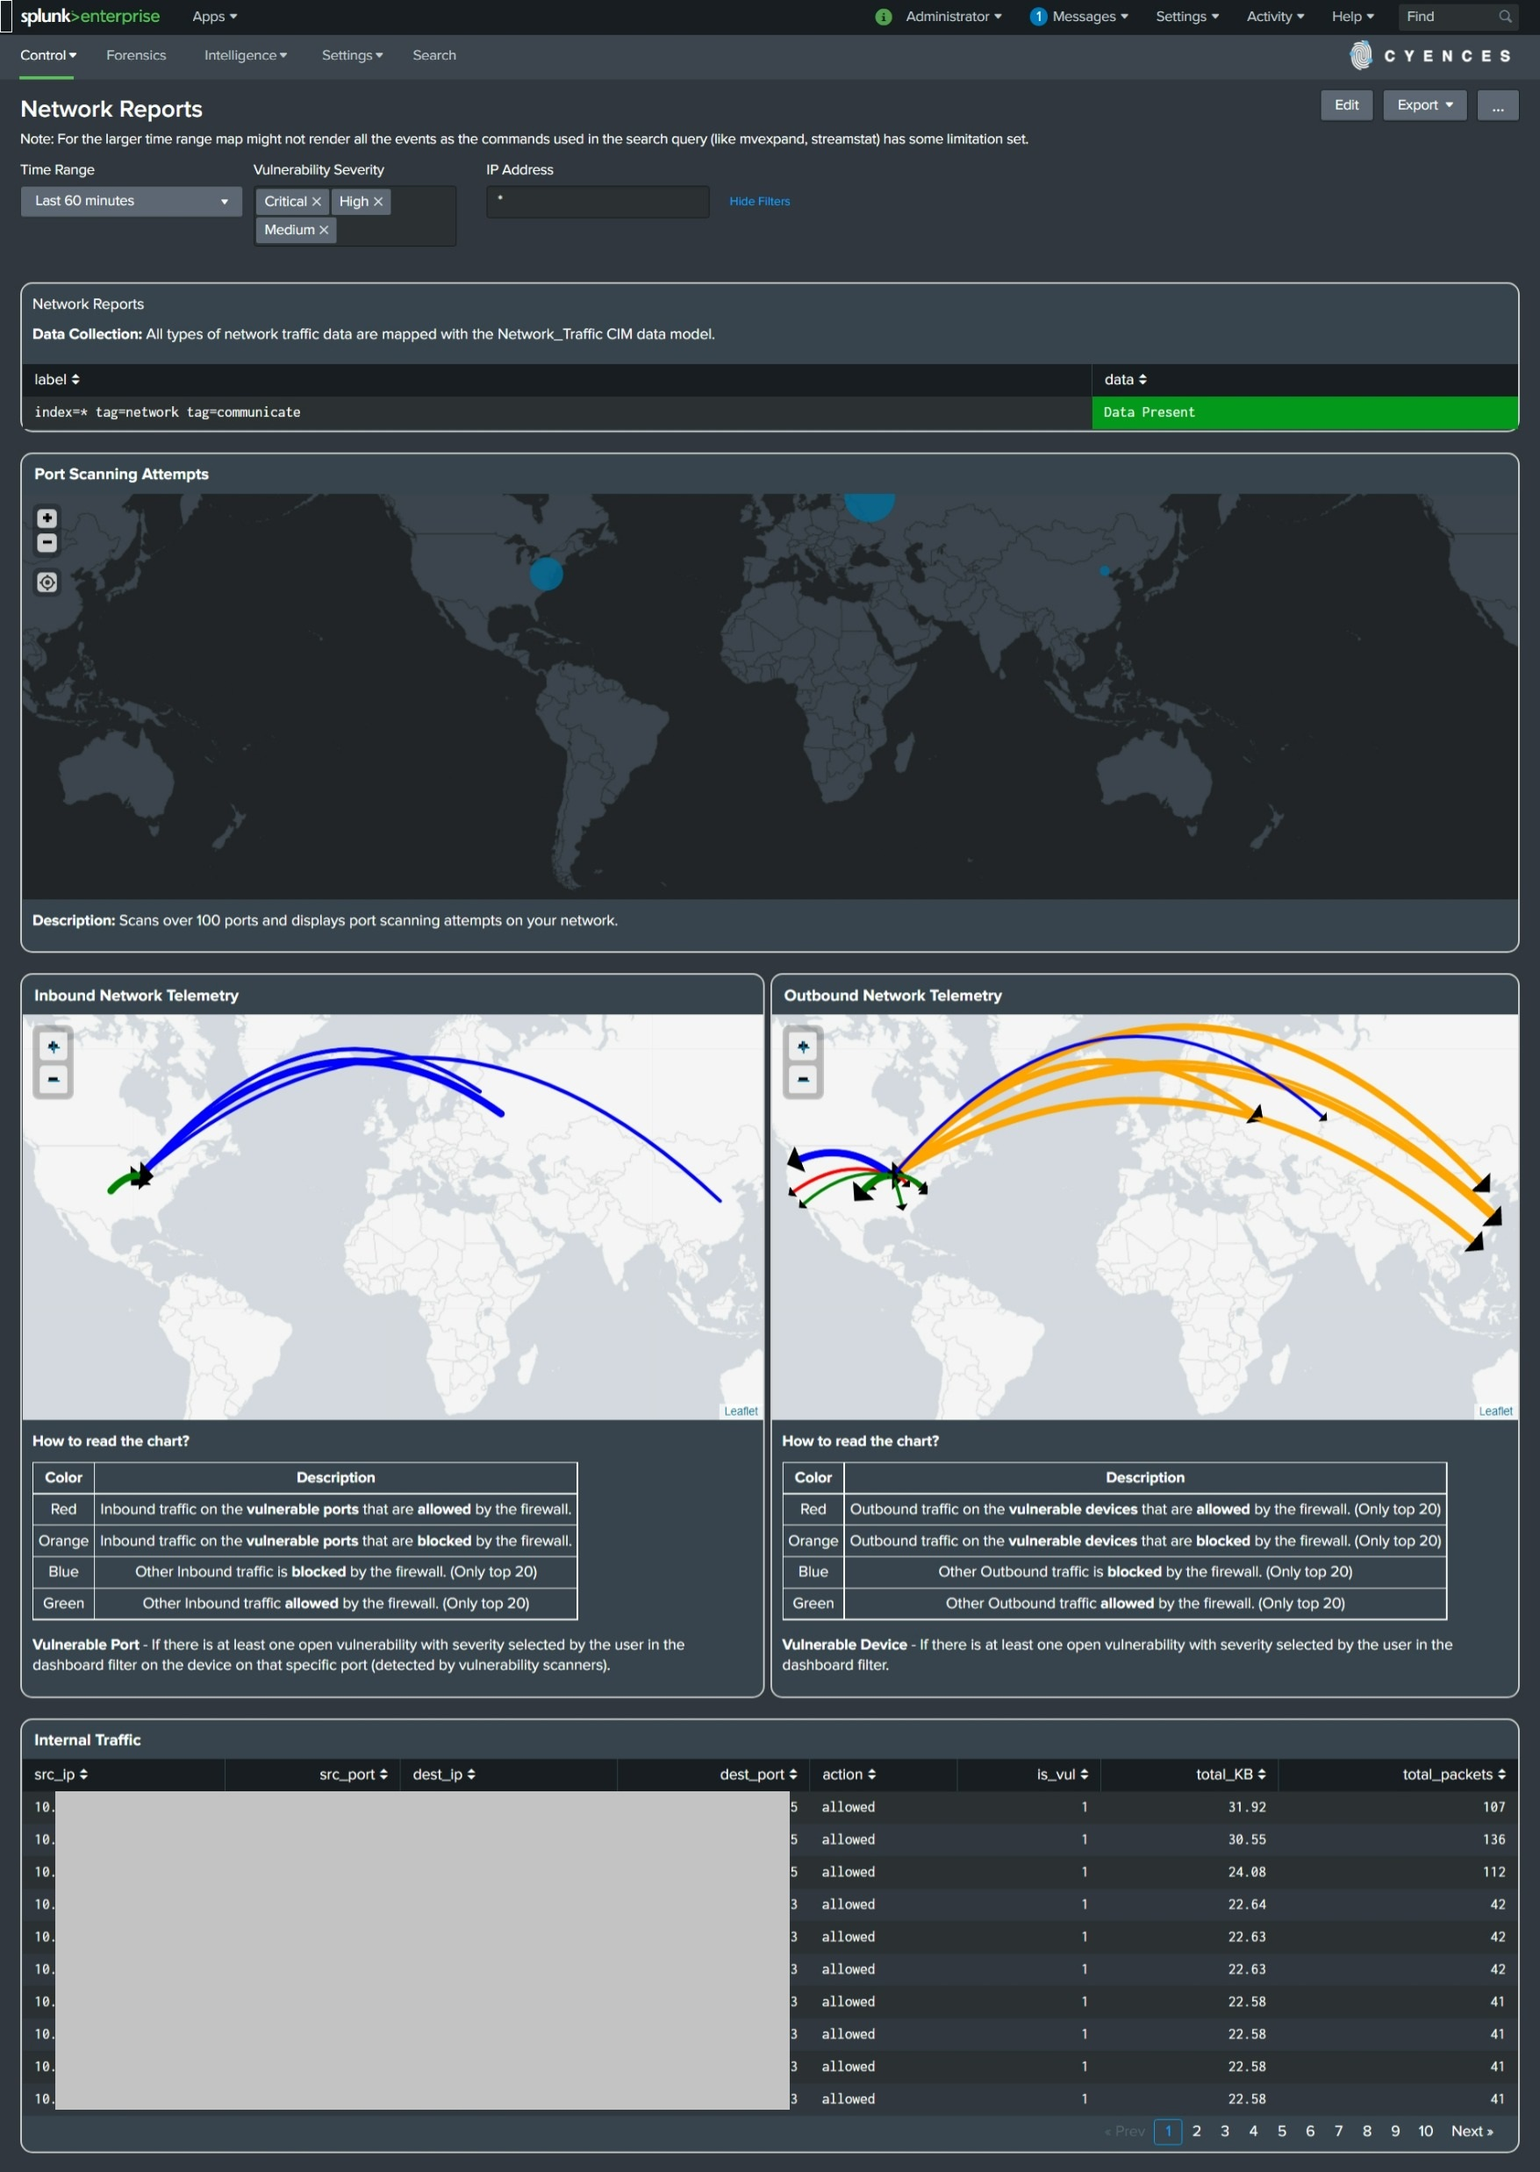
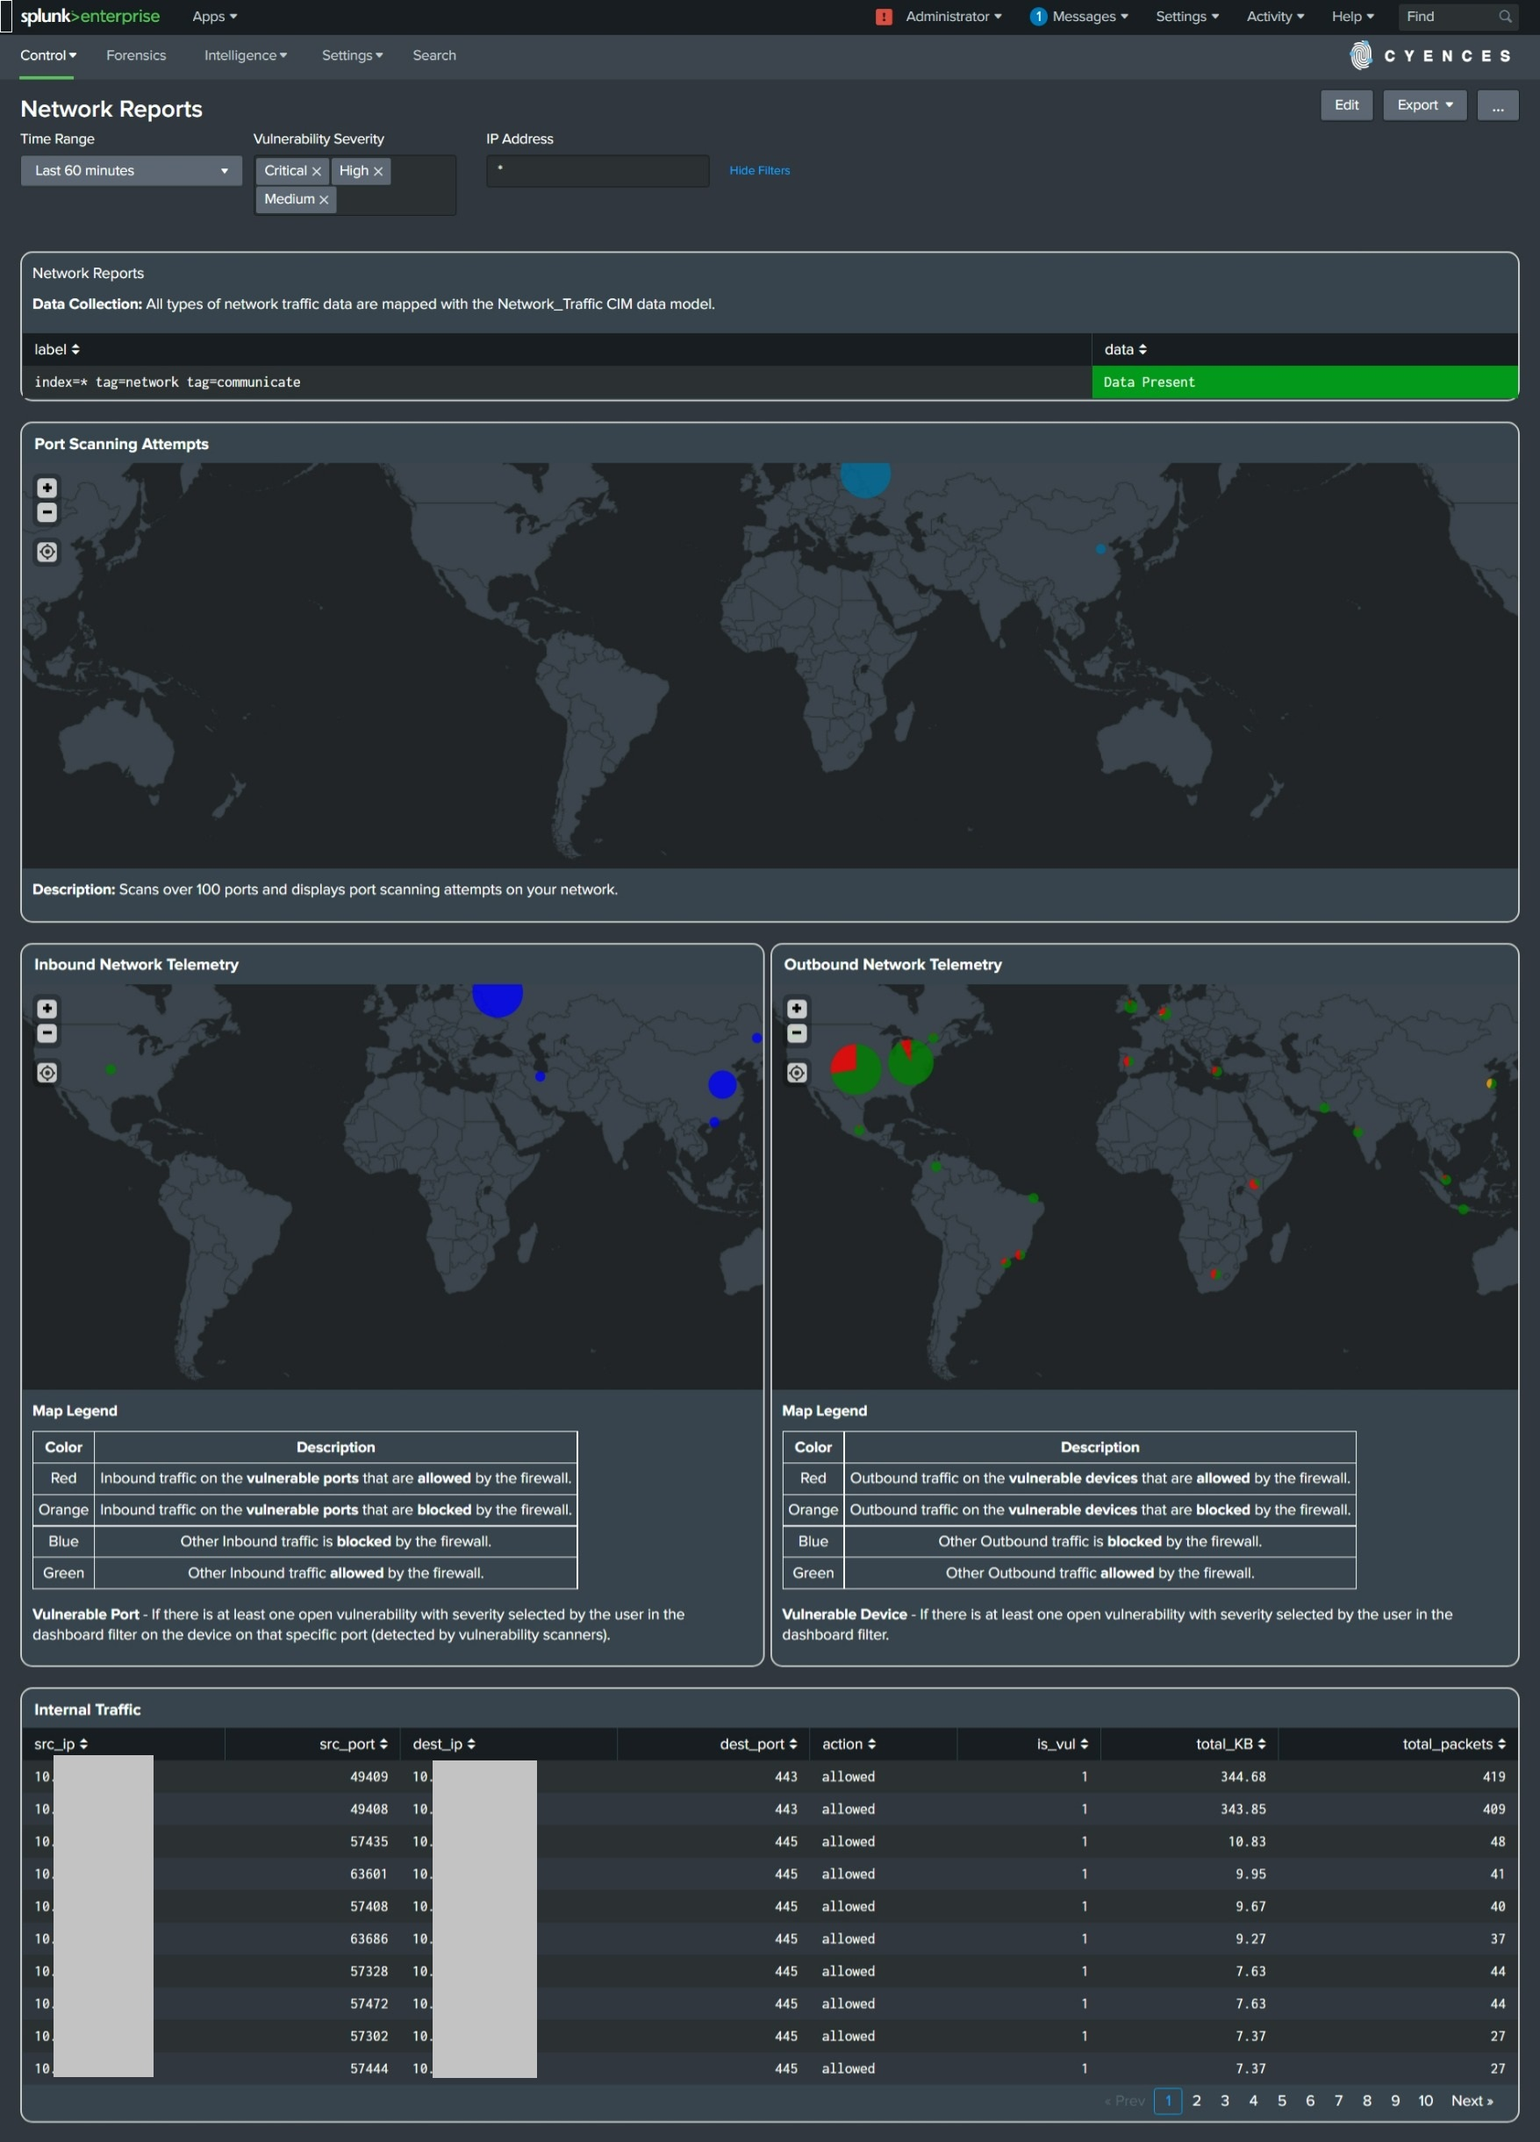
bump version to 230 and doc changes

diff --git a/docs/release_notes/release_notes.md b/docs/release_notes/release_notes.md
@@ -8,61 +8,73 @@ has_children: true
 
 # Release Notes
 
-## Version 2.2.0 (June 2022)
+## Version 2.3.0 (July 2022)
 
+* ### New Cyences_Vulnerabilities and Cyences_Assets datamodel
 
-* ### New Windows Dashboard 
-    * Added `Windows Patch` dashboard to monitor for Windows update related events.
+    * Added `Cyences_Vulnerabilities` and `Cyences_Assets` datamodel.
+
+    * Added field extraction, eventtypes and tags for Qualys, Tenable IO, Tenable Nessus and CrowdStrike Spotlight vulnerability events to map with `Cyences_Vulnerabilities` datamodel.
+
+    * Added field extraction, eventtypes and tags for Qualys and Tenable asset events to map with `Cyences_Assets` datamodel.
+
+    * Added `cs_all_vuln` and `cs_all_assets` KV lookup.
+
+    * Added `Asset Inventory - Vulnerability Lookup Gen` and `Asset Inventory - Lookup Gen` to populate `cs_all_assets` and `cs_all_vuln` lookups from `Cyences_Vulnerabilities` and `Cyences_Assets` datamodel respectively.
+
+    * Updated `Lansweeper` and `Network Reports` dashboard to use `cs_all_vuln` and `cs_all_assets` lookup
+
+    * Replaced `Qualys Host Summary` and `Tenable Vulnerabilities` with a new  `Host Vulnerability Summary` dashboard panel. Similarly replaced `Qualys Vulnerabilities` and `Tenable Summary` with a new `Host Vulnerabilities` dashboard panel in the `Asset Intelligence` dashboard.
+
+* ### New Vulnerability Dashboard
+
+    * Replaced `Tenable` and `Qualys` dashboard with a new `Vulnerability` dashboard.
 
 * ### Added New Alerts
 
-   * Active Directory
-      * `AD - Multiple Password Changes in Short Time Period` 
-      * `AD - Bulk User Creation or Deletion` 
-           
-   * G Suite
-      * `G Suite - Multiple Password Changes in Short Time Period` 
-      * `G Suite - Bulk User Creation or Deletion` 
+   * Authentication
+      * `Authentication - Long Running VPN Session Disconnected`
 
 * ### Enhancements 
 
-    * Active Directory 
-        * Made improvements to the `AD - Password Change Outside Working Hour` alert and dashboard panel to display additional fields.
+    * Network Reports
+        * Updated Map chart from `network_telemetry_map` to Splunk Map to show all the traffic instead of top 20 traffic detail.
 
-    * G Suite
-        * Added `User Created` and `User Deleted` dashboard panels to the G Suite dashboard.
-
-    * Linux/Unix 
-        * Added the time field for both the `Success Login by Host, Users` and `Failed Login by Host, Users` dashboard panels in the `Linux/Unix` dashboard
-        * Removed the `Open Ports` dashboard panel as the `Listening Ports on Host` dashboard panel provides the same information with additional fields.
-
-    * Network Reports   
-        * Added drilldown to the `Port Scanning Attempts` map.
-
-    * Office 365
-        * Updated the alerts and dashboard to use the new `o365:service:healthIssue` sourcetype (`o365:service:status` sourcetype has been retired by the Add-on).
-        * Added `Login by location` map to the `Office 365` dashboard.
-        * Added `authentication_method` and `user_type` fields for O365 login related alerts and dashboard panels.
-
-    * Ransomware Alerts
-        * Enhanced filters for paths to reduce false positives for both `Ransomware - Calculate UpperBound for Spike in File Writes` and `Ransomware - Spike in File Writes`.
-
+    * Palo Alto Firewall
+        * Added `dvc_name` field in the `List of Firewall Devices` dashboard panel.
+    
     * VPN 
-        * Added `Successful Session` dashboard panel.
-        * Added drilldown to the `Connected Workforce by Location` map.
+        * Added `Elapsed Time Per Session` dashboard panel.
 
-    * Windows Reports 
-        * Added `Listening Ports on Host` dashboard panel to the `Windows Reports` dashboard. For data collection, users need to enable the `win_listening_ports` scripted input.
+    * Updated splunklib to the latest version (v1.7.0)
 
+    * Renamed below eventtypes to follow consistence naming convention.
+        | Before | Now |
+        |---|---|
+        | cs_palo_gp_old_login | cs_palo_gp_old_vpn_login |
+        | cs_palo_gp_old_logout | cs_palo_gp_old_vpn_logout |
+        | cs_palo_gp_new_login | cs_palo_gp_new_vpn_login |
+        | cs_palo_gp_new_connected | cs_palo_gp_new_vpn_connected |
+        | cs_palo_gp_new_logout | cs_palo_gp_new_logout |
+
+    * Added `src_ip`, `src` and `private_ip` field extraction for the Cisco VPN logoff event.
+
+    * Added `cs_fortigate` macro.
 
 * ### Bug Fixes
-    * Fixed a drilldown issue for the `Login Details` dashboard panel in the `VPN` dashboard.
 
-    * Fixed the source value in the `cs_sysmon macro` macro.
+    * Forensics
+        * Resolved the Search dropdown issue for `O365 - Azure Active Directory -*` dropdown values.
+
+    * Office 365
+        * Resolved the duplicate event issue for O365 management activity related alerts and dashboard.
 
 
-## Upgrade Guide from 2.1.0 to 2.2.0
 
-* Users need to enable the `win_listening_ports` scripted input from the Splunk Add-on for Windows to populate the `Listening Ports on Host` dashboard panel in the `Windows Reports` dashboard.
+## Upgrade Guide from 2.2.0 to 2.3.0
 
-* The `openPorts.sh` scripted input is no longer reqired for the Cyences App. Users can disable the input from Splunk Add-on for Linux and Unix.
+* After App Upgrade, Run the `Asset Inventory - Vulnerability Lookup Gen` and `Asset Inventory - Lookup Gen` with last 1 year time range to populate `cs_all_assets` and `cs_all_vuln` lookups with historical data.
+
+* Enable the `Cyences_Vulnerabilities` and `Cyences_Assets` datamodel acceleration to improve the search query performance. For datamodel acceleration steps refer: Doc Home page -> Configuration -> App Installation and Configuration -> Data Model Acceleration & Macros
+
+* The `Tenable` and `Qualys` dashboard will be replaced with a new `Vulnerability` dashboard.

diff --git a/docs/user_guide/intelligence_dashboard.md b/docs/user_guide/intelligence_dashboard.md
@@ -14,8 +14,7 @@ Cyences version 1.2.0 introduces a new drop-down option named Intelligence in th
 * Device Inventory
 * Globally Detected Malicious IPs
 * Lansweeper
-* Qualys
-* Tenable
+* Vulnerability
 
 ## Globally Detected Malicious IPs
 
@@ -54,21 +53,18 @@ The Lansweeper dashboard in the Cyences app displays information about every IT 
 
 The Lansweeper dashboard also provides information about whether the IT asset is sending useful security logs based on the type of asset. For example, Windows assets should send Sysmon, WinEventLog:Security, and WinEventLog:System for improved security on those assets. 
 
-## Qualys and Tenable
+## Vulnerability
 
-Qualys and Tenable are security solutions that are designed to detect vulnerabilities present in your environment.  
+Supported Vendor Products: Qualys, Tenable IO, Tenable Nessus, CrowdStrike Spotlight
 
-The Qualys dashboard is powered by Qualys' data [https://www.qualys.com/](https://www.qualys.com/) and the Tenable dashboard is powered by Tenable's data [https://www.tenable.com/](https://www.tenable.com/). 
+The above vendor security solutions are designed to detect vulnerabilities present in your environment.  
 
-The Cyences app utilizes the data provided by Qualys and Tenable to obtain information pertaining to any vulnerabilities that may exist on an IT asset within your environment.
+The Cyences app utilizes the data provided by those vendor product to obtain information pertaining to any vulnerabilities that may exist on an IT asset within your environment.
 
-![alt](https://github.com/VatsalJagani/Splunk-Cyences-App-for-Splunk/blob/master/docs/assets/qualys_dashboard.png?raw=true)
+The dashboard is designed to view Vulnerability count by severity, Host wise vulnerability summary, Vulnerability list. Splunk users can further use drilldown capability to view vulnerability list for a single host, list of hosts affected by a vulnerability.
 
-![alt](https://github.com/VatsalJagani/Splunk-Cyences-App-for-Splunk/blob/master/docs/assets/tenable_dashboard.png?raw=true)
 
-Both of the dashboards that were designed for Qualys and Tenable let Splunk users expand any row within the table to view all of the potential vulnerabilities that are associated with the selected device. 
-
-![alt](https://github.com/VatsalJagani/Splunk-Cyences-App-for-Splunk/blob/master/docs/assets/vulnerabilities_table.png?raw=true)
+![alt](https://github.com/VatsalJagani/Splunk-Cyences-App-for-Splunk/blob/master/docs/assets/vulnerability_dashboard.png?raw=true)
 
 ## Device Inventory
 
@@ -118,8 +114,8 @@ This dashboard shows detailed information about a specific asset or device. The 
 This dashboard displays the following information about devices: 
 
 * Lansweeper information 
-* Qualys or Tenable information and vulnerabilities 
-    * Also, if there is any traffic on the vulnerable ports for a device 
+* Host Vulnerability Summary
+* Host Vulnerabilities
 * Sophos + Windows Defender (Antivirus) status and related events 
 * VPN activities from the device or by the selected user
 * Various authentication activities like RDP and Linux logins 

diff --git a/docs/release_notes/old_release_notes.md b/docs/release_notes/old_release_notes.md
@@ -7,6 +7,66 @@ parent: Release Notes
 ---
 
 
+## Version 2.2.0 (June 2022)
+
+* ### New Windows Dashboard 
+    * Added `Windows Patch` dashboard to monitor for Windows update related events.
+
+* ### Added New Alerts
+
+   * Active Directory
+      * `AD - Multiple Password Changes in Short Time Period` 
+      * `AD - Bulk User Creation or Deletion` 
+           
+   * G Suite
+      * `G Suite - Multiple Password Changes in Short Time Period` 
+      * `G Suite - Bulk User Creation or Deletion` 
+
+* ### Enhancements 
+
+    * Active Directory 
+        * Made improvements to the `AD - Password Change Outside Working Hour` alert and dashboard panel to display additional fields.
+
+    * G Suite
+        * Added `User Created` and `User Deleted` dashboard panels to the G Suite dashboard.
+
+    * Linux/Unix 
+        * Added the time field for both the `Success Login by Host, Users` and `Failed Login by Host, Users` dashboard panels in the `Linux/Unix` dashboard
+        * Removed the `Open Ports` dashboard panel as the `Listening Ports on Host` dashboard panel provides the same information with additional fields.
+
+    * Network Reports   
+        * Added drilldown to the `Port Scanning Attempts` map.
+
+    * Office 365
+        * Updated the alerts and dashboard to use the new `o365:service:healthIssue` sourcetype (`o365:service:status` sourcetype has been retired by the Add-on).
+        * Added `Login by location` map to the `Office 365` dashboard.
+        * Added `authentication_method` and `user_type` fields for O365 login related alerts and dashboard panels.
+
+    * Ransomware Alerts
+        * Enhanced filters for paths to reduce false positives for both `Ransomware - Calculate UpperBound for Spike in File Writes` and `Ransomware - Spike in File Writes`.
+
+    * VPN 
+        * Added `Successful Session` dashboard panel.
+        * Added drilldown to the `Connected Workforce by Location` map.
+
+    * Windows Reports 
+        * Added `Listening Ports on Host` dashboard panel to the `Windows Reports` dashboard. For data collection, users need to enable the `win_listening_ports` scripted input.
+
+
+* ### Bug Fixes
+    * Fixed a drilldown issue for the `Login Details` dashboard panel in the `VPN` dashboard.
+
+    * Fixed the source value in the `cs_sysmon macro` macro.
+
+
+## Upgrade Guide from 2.1.0 to 2.2.0
+
+* Users need to enable the `win_listening_ports` scripted input from the Splunk Add-on for Windows to populate the `Listening Ports on Host` dashboard panel in the `Windows Reports` dashboard.
+
+* The `openPorts.sh` scripted input is no longer reqired for the Cyences App. Users can disable the input from Splunk Add-on for Linux and Unix.
+
+
+
 ## Version 2.1.0 (May 2022)
 
 * ### Ransomware alert improvement

diff --git a/docs/user_guide/alerts_dashboards.md b/docs/user_guide/alerts_dashboards.md
@@ -23,6 +23,7 @@ There are several security related alerts to choose from and they are all locate
     * Authentication - Bruteforce Attempt from a Source
     * Authentication - Excessive Failed VPN Logins for a User
     * Authentication - Excessive Failed VPN Logins from a Source
+    * Authentication - Long Running VPN Session Disconnected
 
 * Credentials Compromised Alerts
     * Credential Compromise - Windows - Credential Dump From Registry via Reg exe
@@ -195,7 +196,7 @@ There are several security related reports to choose from and they are all locat
     * Internal Traffic
     * Outbound Network Telemetry
     * Port Scanning Attempts
-  
+
 ![alt](https://github.com/VatsalJagani/Splunk-Cyences-App-for-Splunk/blob/master/docs/assets/network_reports.png?raw=true)
 
 * Office 365 Reports
@@ -226,8 +227,6 @@ There are several security related reports to choose from and they are all locat
     * Palo Alto Firewall Login Failures
     * System Alerts and Threats
 
-* Qualys Report
-
 * Sophos Reports 
     * Application Blocked
     * Certificate/License Expiration Messages
@@ -243,13 +242,15 @@ There are several security related reports to choose from and they are all locat
     * Web Control Violation
     * Web Filtering Blocked
 
-* Tenable Report
+* Vulnerability Report
 
 * VPN Reports
     * Connected Workforce by Location
+    * Elapsed Time Per Session
     * Logins by Country
     * Logins by Success/Failure
     * Login Details
+    * Successful Session
     * Successful vs Failed Logins
     * Unique Users by Country
 

diff --git a/docs/configuration/installation.md b/docs/configuration/installation.md
@@ -67,6 +67,8 @@ For optimal performance, it is recommended to enable the data model acceleration
 | Network Traffic | cs_summariesonly_network_traffic | 7 day (Minimum) |
 | Authentication | cs_summariesonly_authentication | 7 day (Minimum) |
 | Network Resolution (DNS) | cs_summariesonly_network_resolution_dns |  7 day (Minimum) |
+| Cyences_Vulnerabilities | cs_summariesonly_cyences_vulnerabilities |  1 year (Minimum) |
+| Cyences_Assets | cs_summariesonly_cyences_assets |  1 year (Minimum) |
 
 Once the data models are accelerated, update the macro definitions next, so that Splunk can take full advantage of the accelerated data models which will improve search performance overall.   
 

diff --git a/docs/index.md b/docs/index.md
@@ -45,8 +45,7 @@ Apart from alerts and reports, the Cyences App also integrates with some other w
 * Device Inventory Table
 * Globally Detected Malicious IPs
 * Lansweeper
-* Qualys
-* Tenable
+* Vulnerability
 
 How does the Cyences app differentiate itself from Enterprise Security?
 
